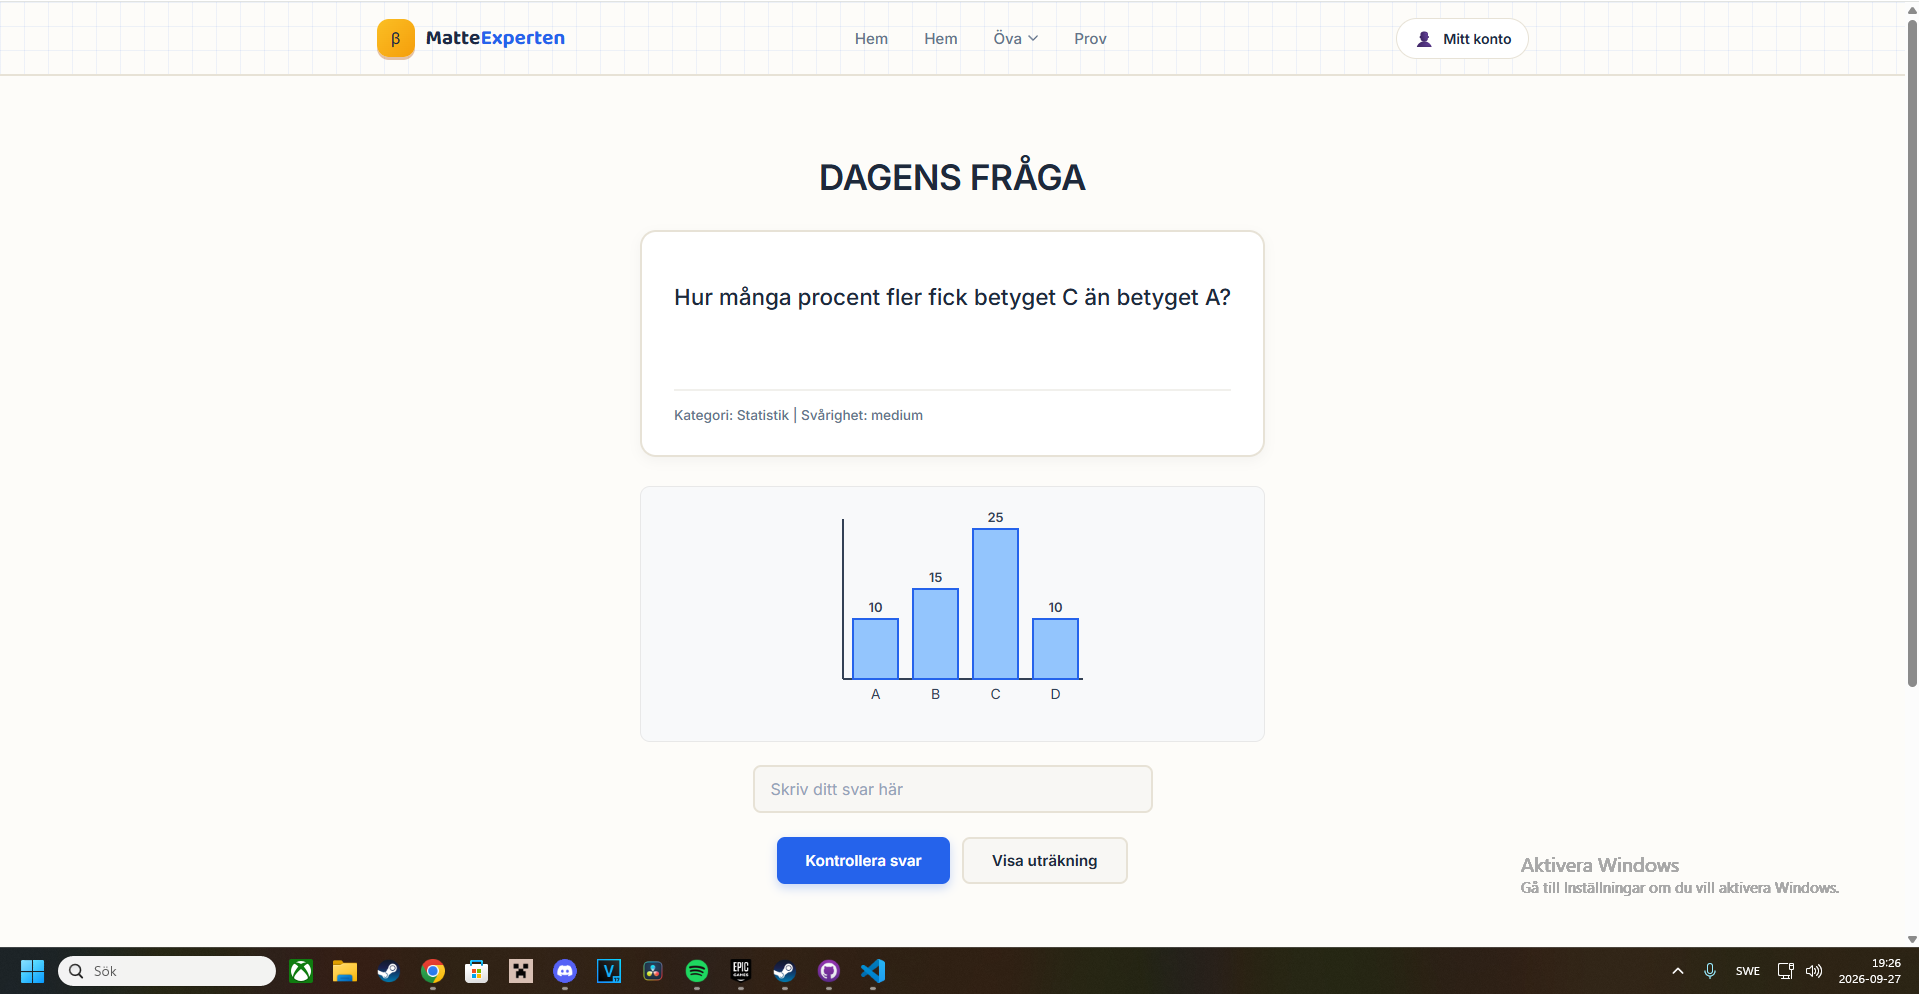
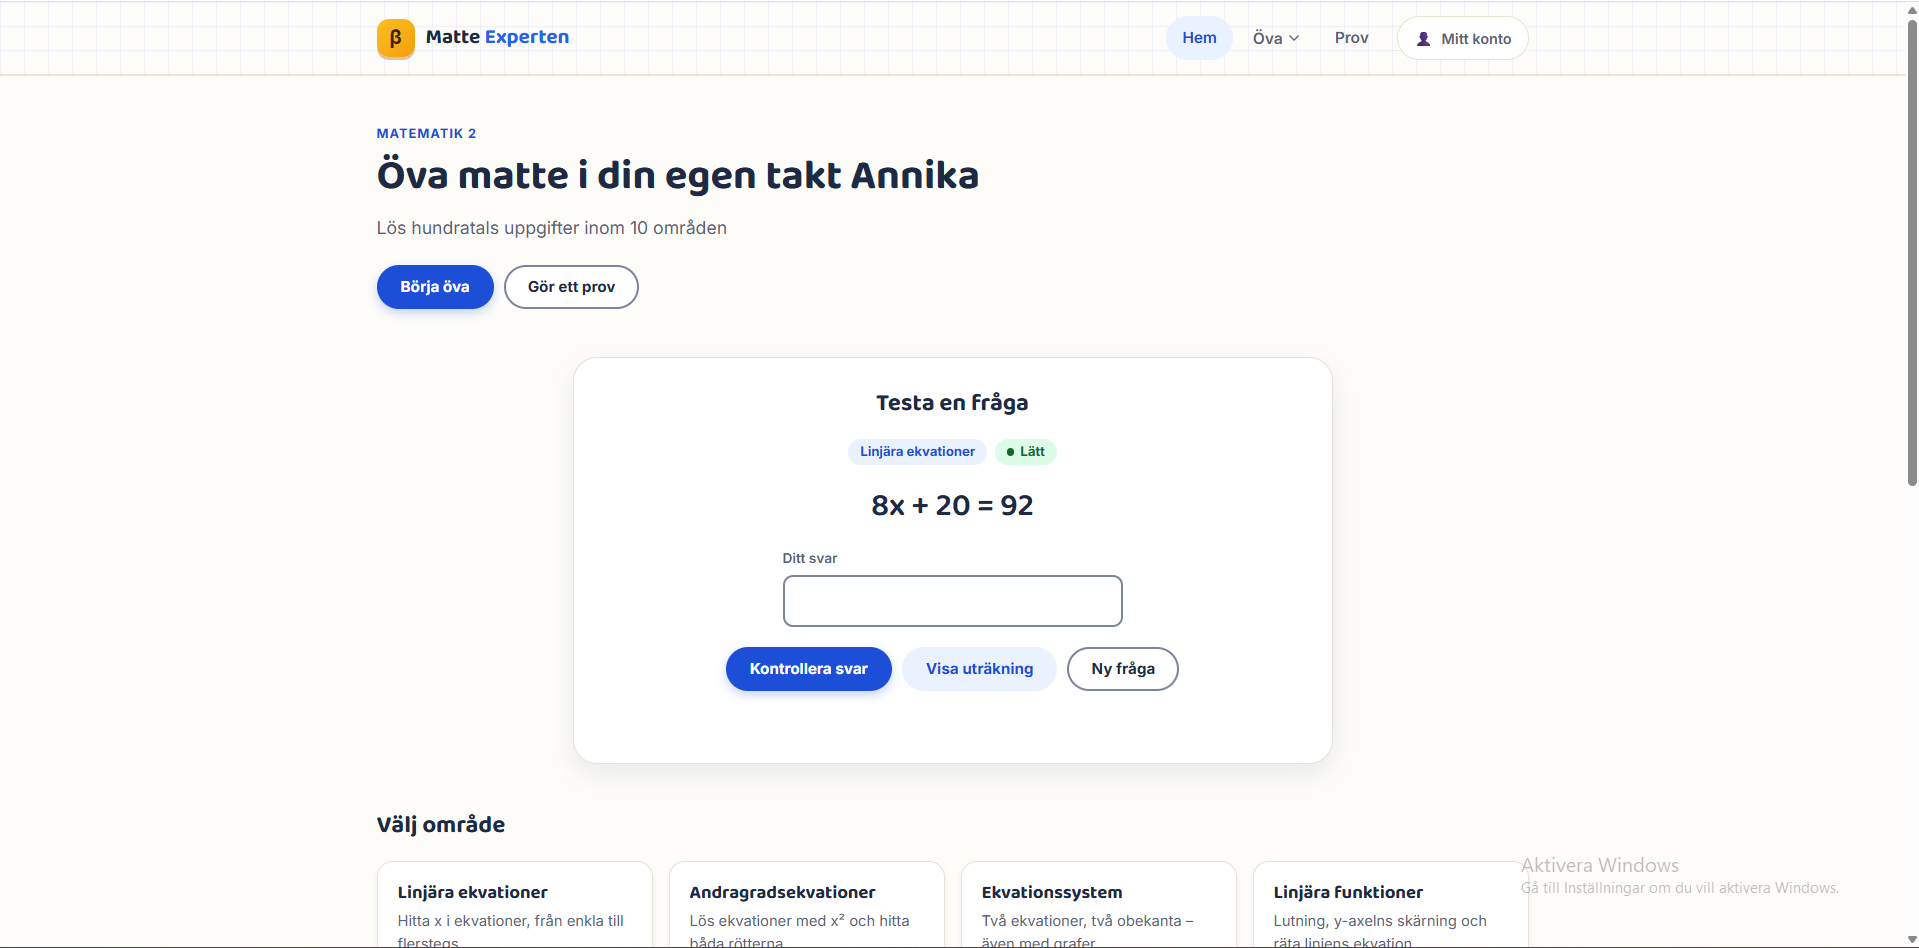
commit

diff --git a/src/sections/Hero.tsx b/src/sections/Hero.tsx
@@ -3,20 +3,20 @@ import { Button } from '../components/Button';
 import { SocialLinks } from '../components/SocialLinks';
 import { SystemDiagram } from '../components/SystemDiagram';
 
-const headline = ['I build interfaces', 'that feel as good', 'as they work.'];
+const headline = ['I always look to further to learn more.'];
 
 export function Hero() {
   return (
     <section className="hero" id="top">
       <div className="wrap hg">
         <div>
-          <span className="mono">Frontend developer · fullstack in progress · Sweden</span>
+          <span className="mono">Frontend developer · Sweden</span>
           <h1>
             {headline.map((line, i) => (
               <span className="reveal-w" key={line}><span style={{ animationDelay: `${i * 0.12}s` }}>{line}</span></span>
             ))}
           </h1>
-          <p className="lead">I'm Mattias, a frontend developer focused on React and TypeScript, with a growing interest in fullstack development. I like understanding how the pieces fit together, from interface to API to database.</p>
+          <p className="lead">I'm Mattias, a frontend developer focused on React and TypeScript, with a growing interest in fullstack development. </p>
           <p className="status"><span className="dot" aria-hidden="true" />Available for frontend and fullstack opportunities</p>
           <div className="row">
             <Button variant="primary" href="#projects">View my work</Button>

diff --git a/src/data/projects.ts b/src/data/projects.ts
@@ -43,13 +43,12 @@ export const projects: Project[] = [
       height: 750,
     },
     description:
-      "A React + TypeScript app for browsing and booking rental cars, built around application architecture.",
+      "A React + TypeScript app for showing my Portfolio.",
     technologies: [
       "React",
       "TypeScript",
       "React Router",
-      "REST API",
-      "JSON Server",
+      "EMAILJS"
     ],
     githubUrl: "https://github.com/MattiasWaern/Portfolio",
   },  
